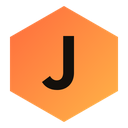
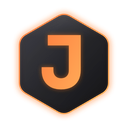
v2.0.1: koyu cam ikon, varsayılan menü Alt Dock
Claude-Session: https://claude.ai/code/session_018ASLnDrtHyYhjBN7JMk95z

diff --git a/launcher/src/renderer/style.css b/launcher/src/renderer/style.css
@@ -281,7 +281,8 @@ input[type=range]::-webkit-slider-thumb { -webkit-appearance: none; width: 20px;
 #splash.out { opacity: 0; visibility: hidden; pointer-events: none; }
 .sp-center { display: flex; flex-direction: column; align-items: center; gap: 16px; margin-top: -40px; }
 .sp-mark { width: 88px; height: 88px; display: grid; place-items: center; animation: sp-pop .6s cubic-bezier(.2,.9,.3,1.2) both; }
-.sp-mark img { width: 100%; height: 100%; filter: drop-shadow(0 10px 22px rgba(234,88,12,.28)); animation: sp-float 2.6s ease-in-out .6s infinite; }
+.sp-mark img { width: 100%; height: 100%; filter: drop-shadow(0 12px 20px rgba(0,0,0,.18)); animation: sp-float 2.6s ease-in-out .6s infinite; }
+:root.dark .sp-mark img { filter: none; }
 .sp-word { font-size: 30px; font-weight: 700; letter-spacing: -.03em; animation: sp-rise .5s ease-out .15s both; }
 .sp-word .dot { color: var(--accent); }
 .sp-bar { width: 180px; height: 4px; border-radius: 99px; background: var(--soft); overflow: hidden; margin-top: 6px; animation: sp-rise .5s ease-out .25s both; position: relative; }

diff --git a/launcher/src/main/config.js b/launcher/src/main/config.js
@@ -1,7 +1,7 @@
 // Jestron Launcher - genel ayarlar. Hiçbir sunucu gömülü değil: sunucuları kullanıcı launcher'dan ekler.
 module.exports = {
   APP_NAME: 'Jestron Launcher',
-  USER_AGENT: 'Jestron/jestron-launcher/2.0.0 (github.com/jesthub25/Jestron-Launcher)',
+  USER_AGENT: 'Jestron/jestron-launcher/2.0.1 (github.com/jesthub25/Jestron-Launcher)',
 
   // Güncelleme kontrolü ve Efekt Menüsü indirmesi için GitHub depoları
   LAUNCHER_REPO: 'jesthub25/Jestron-Launcher',

diff --git a/jestron-client/src/main/java/dev/jestron/client/modules/AppearanceModule.java b/jestron-client/src/main/java/dev/jestron/client/modules/AppearanceModule.java
@@ -7,7 +7,7 @@ import dev.jestron.client.core.Theme;
 
 /** Menü teması ve HUD yazı stili. Açılıp kapanmaz, sadece ayardır. */
 public final class AppearanceModule extends Module {
-    public final Setting.Choice style = add(new Setting.Choice("style", "Menü tasarımı", 0, dev.jestron.client.gui.MenuStyle.names()));
+    public final Setting.Choice style = add(new Setting.Choice("style", "Menü tasarımı", 8, dev.jestron.client.gui.MenuStyle.names()));
     public final Setting.Choice accent = add(new Setting.Choice("accent", "Vurgu rengi", 0, Theme.ACCENT_NAMES));
     public final Setting.Bool hudBg = add(new Setting.Bool("hudBg", "HUD arka planı", true));
     public final Setting.Bool hudShadow = add(new Setting.Bool("hudShadow", "HUD yazı gölgesi", true));

diff --git a/jestron-client/src/main/java/dev/jestron/client/SelfTest.java b/jestron-client/src/main/java/dev/jestron/client/SelfTest.java
@@ -178,7 +178,7 @@ public final class SelfTest {
                 wait = 2;
             }
             case 10 -> {
-                Modules.APPEARANCE.style.set(0);
+                Modules.APPEARANCE.style.reset();
                 Modules.APPEARANCE.accent.set(0);
                 mc.setScreen(new HudEditorScreen(null));
                 wait = 30;

diff --git a/RELEASE_NOTES.md b/RELEASE_NOTES.md
@@ -1,26 +1,21 @@
-## Jestron Launcher 2.0.0
+## Jestron Launcher 2.0.1
 
-**Kurulum:** `Jestron-Launcher-Setup-2.0.0.exe` dosyasını indirip çalıştır. Jestron Client ve Efekt Menüsü 1.21.4 Fabric'te otomatik kurulur; elle bir şey kopyalaman gerekmez.
+**Kurulum:** `Jestron-Launcher-Setup-2.0.1.exe` dosyasını indirip çalıştır. 2.0.0 kuruluysa üzerine kurman yeterli; ayarların, hesapların ve sunucuların korunur. Jestron Client 1.21.4 Fabric'te otomatik güncellenir.
 
 ### Launcher
-- Yeni **Minimal Açık** tasarım; koyu mod ve 6 vurgu rengi.
-- Hiçbir sunucu gömülü değil. İstediğin kadar sunucu ekle, sırala, favorile, adını düzenle, tek tıkla bağlan. İstersen sunucular oyunun Çok Oyunculu listesine de yazılır.
-- Jestron sekmesi: Jestron Client (launcher ile gelir) ve Efekt Menüsü (JestronPriv release'inden indirilir).
-- Modrinth'te kaynak paketi ve shader arama/indirme; Paketlerim sekmesi.
-- Performans ön ayarları: Düşük PC / Dengeli / Yüksek.
-- Ekran görüntüsü galerisi.
-- Çökme analizi (bellek, Java, mod uyumsuzluğu, sürücü, bozuk dosya).
-- Oyun süresi, Onar düğmesi, otomatik güncelleme kontrolü.
-- Optimizasyon: mod çözümleme önbelleği (6 saat), toplu log gönderimi, ping önbelleği.
-- Düzeltmeler:
-  - İnternet yokken modlar artık silinmiyor.
-  - Tek kopya kilidi çalışıyor.
-  - Tepsi ikonu eklendi.
-  - Oyunu kapatınca yanlış "çöktü" uyarısı çıkmıyor.
-  - İlerleme çubuğu geri gitmiyor.
+- Yeni uygulama ikonu: koyu cam altıgen, turuncu J, kenarlarda hafif parlama.
+- Açılış ekranı: logo, ilerleme çubuğu ve durum yazısı.
+- Yeni oyun yükleme ekranı:
+  - Büyük yüzde göstergesi.
+  - 6 adım: Hesap, Sürüm ve Fabric, Java, Modlar, Oyun dosyaları, Oyun açılıyor.
+  - Mod sayısı, RAM, çözünürlük ve ön ayar bilgisi.
+  - İpuçları.
+  - "Arka planda devam et" ile küçük çubuğa iner, çubuğa tıklayınca geri açılır.
+  - Hata olursa hangi adımda durduğunu gösterir.
 
-### Jestron Client 2.0.0 (oyunda Sağ Shift)
-- Feather / Lunar tarzı modül menüsü ve sürükle-bırak HUD düzenleyici.
-- 20 modül: FPS, CPS, Ping, Koordinatlar, Tuşlar, Zırh durumu, Saat, Hız, Bellek, Sunucu, Oturum süresi, Hedef can, İsim üstü can, Dayanıklılık uyarısı, Aç/Kapa koşma, Tam parlaklık, Görünüm, Sohbet saati, Otomatik GG, Giriş mesajı, Sohbet makroları.
-- Efekt Menüsü kısayolu.
-- Gerçek Minecraft 1.21.4 içinde otomatik test edildi (Efekt Menüsü yüklüyken).
+### Jestron Client 2.0.1 (oyunda Sağ Shift)
+- Menü küçüldü: kartlar ve satırlar orta boyda.
+- 10 menü tasarımı: Minimal Açık, Gece Camı, Sekmeli, Liste + Ayar, Izgara, Piksel, Kompakt, Neon, Alt Dock, Tam Ekran.
+- Varsayılan tasarım: **Alt Dock** (kategoriler altta).
+- Değiştirmek için: Sağ Shift › Görünüm › Menü tasarımı.
+- Gerçek Minecraft 1.21.4 içinde 10 tasarımın hepsi otomatik test edildi (Efekt Menüsü yüklüyken).
